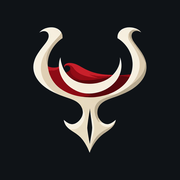
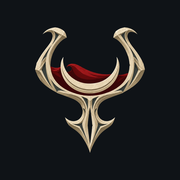
Brand: carved sigil replaces the flat one
New sigil artwork from the admin (same chalice-blade with the moon in
blood, now carved bone with slate inlays). Regenerated Discord icon,
favicons, apple-touch icon, the two home-page emblem layers, logo and
link preview. Blood detection in brand.py now uses the red ratio so the
dark, shaded blood also leaves the chalice empty for the fill animation.

Changed region(s): [[0.1667, 0.1389, 0.8333, 0.8611]]

diff --git a/website/src/styles/global.css b/website/src/styles/global.css
@@ -239,7 +239,7 @@ h3 { font-size: var(--step-1); }
    (Maske mit Wellenkante, die hochwandert und seitlich zieht), dann schlägt das Siegel zweimal wie ein Herz:
    Es pocht kurz größer, rot glühend, das Blut leuchtet auf.
    Mit "Bewegung reduzieren" gibt es keine Maske, das Blut steht gleich da. Die Höhen passen zum Siegel:
-   Blut von 28 % bis 56 % der Bildhöhe; Maske 3 × so hoch wie das Bild, daher -28,5 % = Wellenkante bei 57 %. */
+   Blut von 29 % bis 55 % der Bildhöhe; Maske 3 × so hoch wie das Bild, daher -28,5 % = Wellenkante bei 57 %. */
 @media (prefers-reduced-motion: no-preference) {
   .hero .emblem-blood {
     -webkit-mask: url("../assets/blood-wave.svg") 0 -28.5% / 50% 300% repeat-x;

diff --git a/media/brand.py b/media/brand.py
@@ -33,13 +33,15 @@ def cutout():
 def split_blood(sigil):
     """Teilt das Siegel in Knochen und Blut, damit sich der Kelch auf der Startseite füllen kann.
 
-    Blut = deutlich röter als grün und blau. Nur im Bereich des Bluts im Kelch, sonst färben rötliche
-    Kantenpixel am Umriss mit. Die Blut-Ebene reicht 2 px unter die Knochen-Ebene: übereinander gelegt
-    ergeben beide wieder das Original, ohne Lücken an den Übergängen.
+    Blut = Rot mindestens doppelt so stark wie Grün und Blau (Verhältnis statt Abstand, damit auch das
+    dunkle Blut im Schatten zählt; Knochen und Stein liegen bei etwa 1,1). Nur im Bereich des Bluts im
+    Kelch, sonst färben rötliche Kantenpixel am Umriss mit. Die Blut-Ebene reicht 2 px unter die
+    Knochen-Ebene: übereinander gelegt ergeben beide wieder das Original, ohne Lücken an den Übergängen.
     """
     a = np.asarray(sigil).astype(float)
     rgb, cover = a[..., :3], a[..., 3] / 255
-    red = np.clip((rgb[..., 0] - np.maximum(rgb[..., 1], rgb[..., 2]) - 45) / 30, 0, 1)
+    ratio = rgb[..., 0] / (np.maximum(rgb[..., 1], rgb[..., 2]) + 8)
+    red = np.clip((ratio - 1.5) / 0.6, 0, 1) * np.clip((rgb[..., 0] - 30) / 20, 0, 1)
     ys, xs = np.nonzero((red > 0.5) & (cover > 0.5))
     m = 4
     area = np.zeros_like(red)
